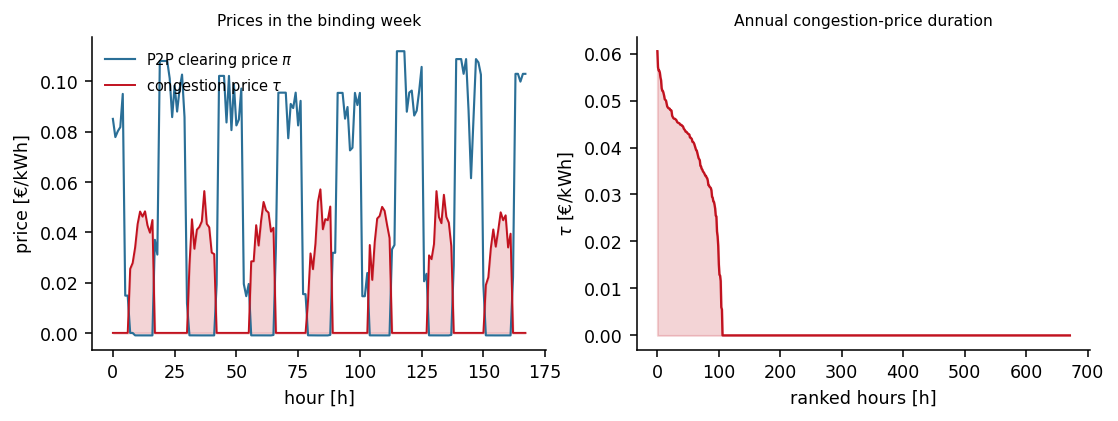
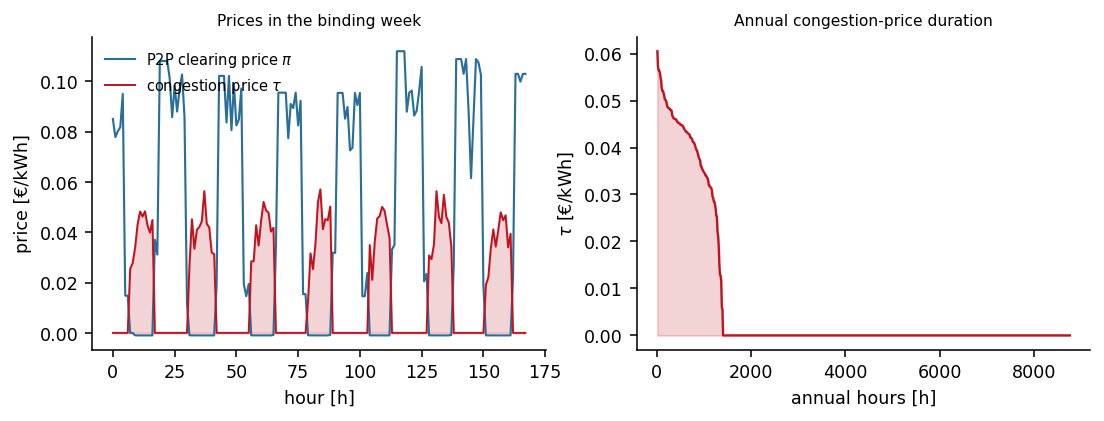
Address final-review revisions: rolling-horizon algorithm, congestion-revenue recycling, deployable-stage regularization audit, Monte Carlo distributions, provenance file, and figure/label refinements

diff --git a/outputs.py b/outputs.py
@@ -26,7 +26,7 @@ TEX_NAME = {"virum": "Virum", "limerick": "Limerick", "vasteras": "V\\\"aster\\a
 FIG_NAME = {"virum": "Virum (DK)", "limerick": "Limerick (IE)", "vasteras": "Västerås (SE)",
             "graz": "Graz–Berlin (DE-AT)", "turkey": "Turkey", "romania": "Romania"}
 VARS = ["DE0", "DE_M1", "DE_IND", "DE_M2", "DE_M3"]
-VLAB = ["DE0", "+Info", "+Fore", "+Pool", "+Grid"]
+VLAB = ["DE0", "+Info", "+Diag", "+Pool", "+Grid"]
 
 plt.rcParams.update({
     "font.size": 9, "axes.spines.top": False, "axes.spines.right": False,
@@ -50,6 +50,12 @@ def _save_fig(fig, name):
     fig.savefig(os.path.join(FIGURES, name + ".png"))
     plt.close(fig)
     print(f"  {name}")
+
+
+def _annual_weights(T):
+    hps = C.HOURS_PER_SEASON
+    w = np.concatenate([[C.SEASON_WEIGHT[s] / (hps / 24.0)] * hps for s in C.SEASONS]) * C.DT
+    return w[:T]
 
 
 # --------------------------------------------------------------------------
@@ -96,7 +102,7 @@ def t_waterfall(main):
                     f"{c['DE_M3']:.1f} & {c['SP']:.1f} & {gap0:.2f} & {rec:.0f}\\% \\\\")
     _write_tex("tab_waterfall.tex",
                "\\begin{tabular}{lrrrrrrrr}\n\\toprule\n"
-               "District & DE0 & +Info & +Foresight & +Pool & +Grid & SP & Gap & M1 rec. \\\\\n"
+               "District & DE0 & +Info & +Diag & +Pool & +Grid & SP & Gap & M1 rec. \\\\\n"
                " & [k\\euro] & [k\\euro] & [k\\euro] & [k\\euro] & [k\\euro] & [k\\euro] & [k\\euro] & \\\\\n\\midrule\n"
                + "\n".join(rows) + "\n\\bottomrule\n\\end{tabular}\n")
 
@@ -148,7 +154,7 @@ def t_marketpower():
             f"{r['cong_payment_kEUR']:.2f} & {r['dev_gain_bound_pct']:.1f} \\\\" for r in rows_in]
     _write_tex("tab_marketpower.tex",
                "\\begin{tabular*}{\\textwidth}{@{\\extracolsep{\\fill}}lrrrrr@{}}\n\\toprule\n"
-               "District & Agents & HHI & Largest & Cong.\\ pay & Dev.\\ bound \\\\\n"
+               "District & Agents & HHI & Largest & Cong.\\ pay & Exposure \\\\\n"
                " & & & exp.\\ share & [k\\euro] & [\\% of bill] \\\\\n\\midrule\n"
                + "\n".join(rows) + "\n\\bottomrule\n\\end{tabular*}\n")
 
@@ -177,7 +183,7 @@ def t_uncertainty():
         ("Deployable M1 recovery [\\% of gap]", pm("m1_recovery_pct", 1), iqr("m1_recovery_pct", 1)),
         ("Curtailment reduction at M3 [\\%]", pm("curt_reduction_pct", 1), iqr("curt_reduction_pct", 1)),
         ("Share: information (DE0$\\to$M1)", pm("share_info"), iqr("share_info")),
-        ("Share: foresight (M1$\\to$IND)", pm("share_foresight"), iqr("share_foresight")),
+        ("Share: diagnostic residual (M1$\\to$IND)", pm("share_foresight"), iqr("share_foresight")),
         ("Share: P2P market (IND$\\to$M2)", pm("share_pool"), iqr("share_pool")),
         ("Share: grid price (M2$\\to$M3)", pm("share_grid"), iqr("share_grid")),
     ]
@@ -315,13 +321,53 @@ def t_tech():
                + "\n".join(f"{k} & {v} \\\\" for k, v in rows) + "\n\\bottomrule\n\\end{tabularx}\n")
 
 
+def t_recycling():
+    d = _load("recycling.json")
+    rows = [f"{r['agent']} & {r['de0']:.2f} & {r['m3']:.2f} & {r['m3_eq']:.2f} & {r['m3_prop']:.2f} & "
+            f"{'yes' if r['ir_eq'] else 'no'} & {'yes' if r['ir_prop'] else 'no'} \\\\" for r in d["rows"]]
+    _write_tex("tab_recycling.tex",
+               "\\begin{tabular*}{\\textwidth}{@{\\extracolsep{\\fill}}lrrrrcc@{}}\n\\toprule\n"
+               "Agent & $\\mathrm{DE0}$ & $\\mathrm{M3}$ & $\\mathrm{M3}$+equal & $\\mathrm{M3}$+prop.\\ & IR equal & IR prop.\\ \\\\\n"
+               " & [k\\euro] & [k\\euro] & [k\\euro] & [k\\euro] & & \\\\\n\\midrule\n"
+               + "\n".join(rows) + "\n\\bottomrule\n\\end{tabular*}\n")
+
+
+def t_reg_deployable():
+    rows_in = _load("regularization_deployable.json")
+    rows = [f"$10^{{{int(round(np.log10(r['epsilon'])))}}}$ & {r['de0_kEUR']:.3f} & {r['m1_kEUR']:.3f} & "
+            f"{r['info_kEUR']:.3f} & {r['m1_recovery_pct']:.1f} \\\\" for r in rows_in]
+    _write_tex("tab_reg_deployable.tex",
+               "\\begin{tabular*}{\\textwidth}{@{\\extracolsep{\\fill}}rrrrr@{}}\n\\toprule\n"
+               "$\\varepsilon^{\\mathrm r}$ & DE0 cost & M1 cost & Info gain & M1 recovery \\\\\n"
+               " & [k\\euro] & [k\\euro] & [k\\euro] & [\\% of gap] \\\\\n\\midrule\n"
+               + "\n".join(rows) + "\n\\bottomrule\n\\end{tabular*}\n")
+
+
+def t_montecarlo():
+    rows = [
+        ("Ambient temperature", "additive $\\mathcal N(0,1.2\\,^\\circ\\mathrm{C})$ per hour", "common to all agents"),
+        ("Solar clearness", "$\\mathrm{Beta}(5,2)$ per hour", "common, clipped to $[0.2,1.0]$"),
+        ("Electrical load", "multiplicative $1+\\mathcal N(0,0.05)$ per hour", "independent per agent"),
+        ("Day-ahead price", "additive $\\mathcal N(0,0.01)$~\\euro/kWh", "common, floored at 0.01"),
+        ("Emission factor", "additive $\\mathcal N(0,0.01)$~kg/kWh", "common, floored at 0.005"),
+        ("Private forecast error", "multiplicative $1+\\mathcal N(0,0.25)$", "independent per agent, clipped $\\ge0.2$"),
+        ("Shared forecast error", "multiplicative $1+\\mathcal N(0,0.08)$", "common to all agents, clipped $\\ge0.2$"),
+    ]
+    _write_tex("tab_montecarlo.tex",
+               "\\begin{tabularx}{\\textwidth}{@{}>{\\raggedright\\arraybackslash}p{4.0cm}"
+               ">{\\raggedright\\arraybackslash}p{3.7cm}X@{}}\n\\toprule\n"
+               "Quantity & Perturbation & Correlation and bounds \\\\\n\\midrule\n"
+               + "\n".join(f"{a} & {b} & {c} \\\\" for a, b, c in rows) + "\n\\bottomrule\n\\end{tabularx}\n")
+
+
 def generate_tables():
     main = _load("main_results.json")
     t_pilots(main); t_main(main); t_waterfall(main); t_prices(main); t_equiv(main)
-    t_agents(); t_zones(); t_tech(); t_provenance()
+    t_agents(); t_zones(); t_tech(); t_provenance(); t_montecarlo()
     for name, fn in [("agent_ir", t_agent_ir), ("marketpower", t_marketpower), ("forecast", t_forecast),
                      ("uncertainty", t_uncertainty), ("fullyear", t_fullyear),
-                     ("reg_sensitivity", t_reg_sensitivity), ("order_audit", t_order_audit)]:
+                     ("reg_sensitivity", t_reg_sensitivity), ("order_audit", t_order_audit),
+                     ("recycling", t_recycling), ("reg_deployable", t_reg_deployable)]:
         try:
             fn()
         except (FileNotFoundError, KeyError) as e:
@@ -422,7 +468,7 @@ def fig_waterfall(main):
         ax.set_title(FIG_NAME[pid], fontsize=8)
         ax.set_ylim(min(costs) * 0.9, max(costs) * 1.02)
         for xi, c in zip(x, costs):
-            ax.text(xi, c, f"{c:.0f}", ha="center", va="bottom", fontsize=6)
+            ax.text(xi, c, f"{c:.1f}", ha="center", va="bottom", fontsize=6)
     axes[0].set_ylabel("annual net cost [k€]")
     _save_fig(fig, "F2_waterfall")
 
@@ -441,10 +487,12 @@ def fig_prices(main):
     ax.set_xlabel("hour [h]"); ax.set_ylabel("price [€/kWh]")
     ax.set_title("Prices in the binding week", fontsize=8)
     ax.legend(fontsize=7.5, frameon=False)
-    td = np.sort(tau)[::-1]
-    ax2.plot(np.arange(len(td)), td, color="#c1121f", lw=1.2)
-    ax2.fill_between(np.arange(len(td)), 0, td, color="#c1121f", alpha=.18)
-    ax2.set_xlabel("ranked hours [h]"); ax2.set_ylabel(r"$\tau$ [€/kWh]")
+    wa = _annual_weights(len(tau))
+    order = np.argsort(tau)[::-1]
+    xh = np.cumsum(wa[order])
+    ax2.plot(xh, tau[order], color="#c1121f", lw=1.2)
+    ax2.fill_between(xh, 0, tau[order], color="#c1121f", alpha=.18)
+    ax2.set_xlabel("annual hours [h]"); ax2.set_ylabel(r"$\tau$ [€/kWh]")
     ax2.set_title("Annual congestion-price duration", fontsize=8)
     _save_fig(fig, "F4_prices")
 
@@ -580,7 +628,7 @@ def fig_uncertainty(u):
     ax.axvline(st["gap_pct"]["mean"], color="#c1121f", lw=1.2, label=f"mean {st['gap_pct']['mean']:.1f}%")
     ax.set_xlabel("coordination gap [% of DE0 cost]"); ax.set_ylabel("count")
     ax.set_title("Gap distribution across seeds", fontsize=8); ax.legend(fontsize=7, frameon=False)
-    labels = ["information", "foresight", "P2P market", "grid price"]
+    labels = ["information", "diagnostic", "P2P market", "grid price"]
     keys = ["share_info", "share_foresight", "share_pool", "share_grid"]
     means = [st[k]["mean"] for k in keys]; sds = [st[k]["std"] for k in keys]
     ax2.bar(np.arange(4), means, 0.6, yerr=sds, capsize=3, color=["#8d99ae", "#6c8ead", "#2a6f97", "#014f86"])

diff --git a/experiments.py b/experiments.py
@@ -626,6 +626,46 @@ def run_convex_audit(pid="virum"):
         regularization_sensitivity=reg_rows, order_audit=order))
 
 
+def run_reg_deployable(pid="virum"):
+    """Regularizer sensitivity of the deployable stages DE0 and M1. The costs and
+    the information recovery should be stable across the coupling-flow regularizer."""
+    print(f"[reg-deployable] pilot={pid}")
+    d = build_pilot_data(pid)
+    rows = []
+    for eps in [1e-7, 1e-6, 1e-5]:
+        wf, _ = solve_waterfall(d, regularization=eps)
+        de0 = wf["DE0"]["cost_kEUR"]; m1 = wf["DE_M1"]["cost_kEUR"]; gap = de0 - wf["DE_M3"]["cost_kEUR"]
+        rows.append(dict(epsilon=eps, de0_kEUR=de0, m1_kEUR=m1, info_kEUR=de0 - m1,
+                         m1_recovery_pct=100 * (de0 - m1) / gap if gap > 1e-6 else 0.0, gap_kEUR=gap))
+    _save("regularization_deployable.json", rows)
+    return rows
+
+
+def run_recycling(pid="virum"):
+    """Congestion-revenue recycling and individual rationality. Returns each
+    agent's M3 bill after equal per-capita and payment-proportional recycling and
+    whether individual rationality is restored relative to DE0. Requires agent_table.json."""
+    print(f"[recycling] pilot={pid}")
+    d = build_pilot_data(pid); w = d.days_weight * d.dt; A = list(d.agents.keys())
+    _, pi, tau, pa = _joint(d, True, CARBON_PRICE, DH_PRICE, detail=True)
+    m3 = {a: pa[a]["bill"] for a in A}
+    cong = {a: float(np.sum(w * tau * (pa[a]["exp"] - pa[a]["imp"]))) / 1000 for a in A}
+    R = sum(cong.values()); n = len(A)
+    de0 = {r["agent"]: r["de0_kEUR"] for r in json.load(open(os.path.join(RESULTS, "agent_table.json")))["rows"]}
+    rows = []
+    for a in A:
+        eq = m3[a] - R / n
+        prop = m3[a] - cong[a]
+        rows.append(dict(agent=a, de0=de0[a], m3=m3[a], cong=cong[a], m3_eq=eq, m3_prop=prop,
+                         ir_m3=int(m3[a] <= de0[a] + 1e-6), ir_eq=int(eq <= de0[a] + 1e-6),
+                         ir_prop=int(prop <= de0[a] + 1e-6)))
+    _save("recycling.json", dict(pid=pid, revenue_kEUR=R, n=n, rows=rows,
+                                 n_ir_m3=sum(r["ir_m3"] for r in rows),
+                                 n_ir_eq=sum(r["ir_eq"] for r in rows),
+                                 n_ir_prop=sum(r["ir_prop"] for r in rows)))
+    return rows
+
+
 if __name__ == "__main__":
     t0 = time.time()
     run_main()
@@ -637,6 +677,8 @@ if __name__ == "__main__":
     run_baseline("virum")
     run_marketpower()
     run_agent_table("virum")
+    run_recycling("virum")
+    run_reg_deployable("virum")
     if cp is not None:
         run_convex_audit("virum")
     print(f"\nAll experiments done in {time.time()-t0:.0f}s")

diff --git a/tables/tab_montecarlo.tex b/tables/tab_montecarlo.tex
@@ -1,0 +1,13 @@
+\begin{tabularx}{\textwidth}{@{}>{\raggedright\arraybackslash}p{4.0cm}>{\raggedright\arraybackslash}p{3.7cm}X@{}}
+\toprule
+Quantity & Perturbation & Correlation and bounds \\
+\midrule
+Ambient temperature & additive $\mathcal N(0,1.2\,^\circ\mathrm{C})$ per hour & common to all agents \\
+Solar clearness & $\mathrm{Beta}(5,2)$ per hour & common, clipped to $[0.2,1.0]$ \\
+Electrical load & multiplicative $1+\mathcal N(0,0.05)$ per hour & independent per agent \\
+Day-ahead price & additive $\mathcal N(0,0.01)$~\euro/kWh & common, floored at 0.01 \\
+Emission factor & additive $\mathcal N(0,0.01)$~kg/kWh & common, floored at 0.005 \\
+Private forecast error & multiplicative $1+\mathcal N(0,0.25)$ & independent per agent, clipped $\ge0.2$ \\
+Shared forecast error & multiplicative $1+\mathcal N(0,0.08)$ & common to all agents, clipped $\ge0.2$ \\
+\bottomrule
+\end{tabularx}

diff --git a/tables/tab_recycling.tex b/tables/tab_recycling.tex
@@ -1,0 +1,11 @@
+\begin{tabular*}{\textwidth}{@{\extracolsep{\fill}}lrrrrcc@{}}
+\toprule
+Agent & $\mathrm{DE0}$ & $\mathrm{M3}$ & $\mathrm{M3}$+equal & $\mathrm{M3}$+prop.\ & IR equal & IR prop.\ \\
+ & [k\euro] & [k\euro] & [k\euro] & [k\euro] & & \\
+\midrule
+VI-A & 13.49 & 15.52 & 13.03 & 12.97 & yes & yes \\
+VI-B & 13.88 & 16.13 & 13.64 & 13.57 & yes & yes \\
+VI-C & 14.85 & 17.27 & 14.79 & 14.69 & yes & yes \\
+VI-D & 12.12 & 12.98 & 10.50 & 10.73 & yes & yes \\
+\bottomrule
+\end{tabular*}

diff --git a/tables/tab_reg_deployable.tex b/tables/tab_reg_deployable.tex
@@ -1,0 +1,10 @@
+\begin{tabular*}{\textwidth}{@{\extracolsep{\fill}}rrrrr@{}}
+\toprule
+$\varepsilon^{\mathrm r}$ & DE0 cost & M1 cost & Info gain & M1 recovery \\
+ & [k\euro] & [k\euro] & [k\euro] & [\% of gap] \\
+\midrule
+$10^{-7}$ & 54.339 & 53.963 & 0.376 & 15.8 \\
+$10^{-6}$ & 54.339 & 53.963 & 0.376 & 15.8 \\
+$10^{-5}$ & 54.281 & 53.898 & 0.383 & 16.5 \\
+\bottomrule
+\end{tabular*}

diff --git a/tables/tab_marketpower.tex b/tables/tab_marketpower.tex
@@ -1,6 +1,6 @@
 \begin{tabular*}{\textwidth}{@{\extracolsep{\fill}}lrrrrr@{}}
 \toprule
-District & Agents & HHI & Largest & Cong.\ pay & Dev.\ bound \\
+District & Agents & HHI & Largest & Cong.\ pay & Exposure \\
  & & & exp.\ share & [k\euro] & [\% of bill] \\
 \midrule
 Virum & 4 & 0.25 & 0.26 & 2.54 & 16.4 \\

diff --git a/tables/tab_uncertainty.tex b/tables/tab_uncertainty.tex
@@ -10,7 +10,7 @@ Planner curtailment [MWh] & 160.0 $\pm$ 8.8 & [154.5, 166.6] \\
 Deployable M1 recovery [\% of gap] & 16.4 $\pm$ 1.8 & [15.2, 17.4] \\
 Curtailment reduction at M3 [\%] & 43.5 $\pm$ 2.2 & [42.0, 45.1] \\
 Share: information (DE0$\to$M1) & 0.16 $\pm$ 0.02 & [0.15, 0.17] \\
-Share: foresight (M1$\to$IND) & -0.00 $\pm$ 0.02 & [-0.02, 0.01] \\
+Share: diagnostic residual (M1$\to$IND) & -0.00 $\pm$ 0.02 & [-0.02, 0.01] \\
 Share: P2P market (IND$\to$M2) & 0.16 $\pm$ 0.02 & [0.15, 0.18] \\
 Share: grid price (M2$\to$M3) & 0.68 $\pm$ 0.03 & [0.66, 0.70] \\
 \midrule

diff --git a/tables/tab_waterfall.tex b/tables/tab_waterfall.tex
@@ -1,6 +1,6 @@
 \begin{tabular}{lrrrrrrrr}
 \toprule
-District & DE0 & +Info & +Foresight & +Pool & +Grid & SP & Gap & M1 rec. \\
+District & DE0 & +Info & +Diag & +Pool & +Grid & SP & Gap & M1 rec. \\
  & [k\euro] & [k\euro] & [k\euro] & [k\euro] & [k\euro] & [k\euro] & [k\euro] & \\
 \midrule
 Virum & 54.3 & 54.0 & 54.0 & 53.5 & 52.0 & 52.0 & 2.39 & 16\% \\

diff --git a/PROVENANCE.md b/PROVENANCE.md
@@ -1,0 +1,45 @@
+# Calibration provenance
+
+All inputs are calibration archetypes generated deterministically by `data.py` and
+`config.py`. They are not metered field data. The values below are stylized
[phone redacted] calibration figures inspired by the named sources; they are not a
+statement of current 2026 remuneration or tariffs. Each figure is reproducible
+from `config.py` (`SEED = 42`).
+
+| Parameter family | Value / range | Basis | Source organization | Transformation in the code |
+|---|---|---|---|---|
+| Day-ahead price level and shape | 0.07-0.13 EUR/kWh, diurnal amplitude | 2023-24 | ENTSO-E Transparency Platform (zonal day-ahead) | zonal mean plus sinusoidal diurnal shape, `config.ZONES`, `data.build_pilot_data` |
+| Export / feed-in ratio | 0.45-0.55 of import price | 2023-24 | National schemes then in force (see below) | `ZoneMarket.export_ratio`, applied as `price_exp = ratio * price_imp` |
+| Use-of-system tariff | 0.028-0.040 EUR/kWh | 2023-24 | Published DSO volumetric network tariffs | `ZoneMarket.tariff_use`, flat volumetric charge |
+| Grid emission factor | 0.03-0.42 kg/kWh, diurnal | 2023 | Zonal location-based intensities (attributional) | `ZoneMarket.ef_mean/ef_amp`, zonal mean plus diurnal shape |
+| District-heating emission factor | 0.03-0.20 kg/kWh | 2023 | Zonal district-heating intensities | `ZoneMarket.ef_dh` |
+| PV specific yield | 950-1550 kWh/kWp/yr | TMY | JRC PVGIS climate ranges | `config.PV_YIELD`, sizes the PV portfolio to the positive-energy target |
+| Heat-pump COP curve | 3.2 at 7 C, +0.10 per C, bounds [1.8, 5.5] | - | EN 14511 datasheet range | `config.COP0/KAPPA_COP/COP_MIN/COP_MAX` |
+| Battery round-trip / SoC / C-rate | 0.90 / [0.15, 0.85] / 0.25 | - | Li-ion datasheet typical | `config.ETA_CH/ETA_DIS/SOC_MIN/SOC_MAX/BATT_C_RATE` |
+| Battery degradation cost | 0.02 EUR/kWh cycled | - | Levelized cycle-life estimate | `config.DEG_COST` |
+| Thermal storage eff. / loss / C-rate | 0.95 / 0.01 per h / 0.5 | - | Water-tank thermal-storage typical | `config.ETA_TES/KAPPA_TES/TES_C_RATE` |
+| Shiftable load share / depth / window | 0.25 / 0.30 / 3 h | - | Demand-response literature range | load split in `data.py`, `config.ALPHA_SHIFT/W_SHIFT` |
+| Forecast error s.d. (private / shared) | 0.25 / 0.08 | - | Day-ahead PV and load forecast skill | `model.ERR_PRIV/ERR_SHARED` |
+| Hosting limit (net export) | 130-260 kW | - | About 1/3 to 2/3 of a 400 kVA secondary transformer | `Pilot.hosting_limit_kw` |
+| Installed capacities, floor areas | per configuration | - | Sized to the positive-energy threshold | `config` agents, `data.build_pilot_data` |
+
+## National remuneration schemes referenced for the export ratios
+
+These are named for traceability. The export ratios are stylized values inspired
+by the schemes in force in 2023-24, not exact reproductions.
+
+| Zone | Scheme | Note |
+|---|---|---|
+| Denmark (DK2) | Hourly spot-based settlement (Danish Energy Agency) | |
+| Sweden (SE3) | Microproduction tax reduction (Skatteverket) | In effect through 2025; removed from 1 January 2026 |
+| Ireland (SEM) | Clean Export Guarantee (CRU) | |
+| Germany | EEG feed-in tariff (Bundesnetzagentur) | |
+| Austria | Market-premium scheme (OeMAG / EAG) | |
+| Turkey | Unlicensed-generation settlement (EPDK) | |
+| Romania | Prosumer regulation (ANRE) | |
+
+## P2P price spread
+
+The modeled peer-to-peer buy-sell spread of roughly 0.04-0.06 EUR/kWh is within
+the range reported for community-trading pilots. It is a calibration reference,
+not an exact reproduction of any single demonstrator.

diff --git a/README.md b/README.md
@@ -79,7 +79,8 @@ reported numbers reproduce exactly.
 ## Data availability
 
 All inputs are generated by `data.py` from the documented calibration constants,
-and no third-party datasets are redistributed. The archived release is deposited
+and no third-party datasets are redistributed. `PROVENANCE.md` documents the
+source organization, basis year, and transformation for each calibrated value. The archived release is deposited
 with a persistent DOI and pins
 the Gurobi and Clarabel versions above.
 